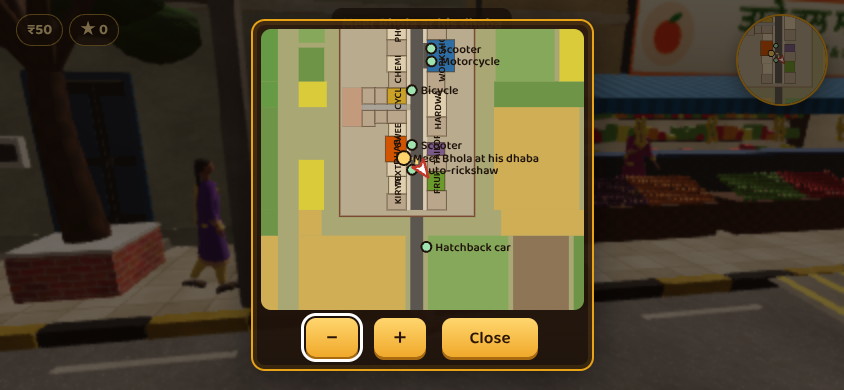
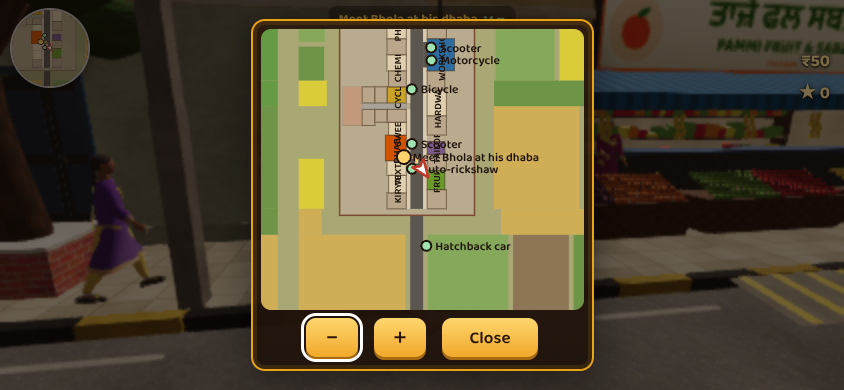
GTA-style touch HUD: edge-hugging translucent controls, clear centre
Minimap top-left (tap for the full map) with speed under it, money and
status top-right, a one-line objective at the top, a small faint joystick,
small see-through buttons and compact pedals in the corner, no hint box,
the interact button only when there is something to do.

Claude-Session: https://claude.ai/code/session_01Jnez1WfyLHPdoZrXbbanCH

diff --git a/src/ui/styles.css b/src/ui/styles.css
@@ -224,3 +224,79 @@ body.touch .compass { top: calc(140px + env(safe-area-inset-top)); }
   .mapwrap h2, .mapwrap .legend { display: none; }
   .zoombar { margin-top: 4px; }
 }
+
+/* ==========================================================================
+   Touch HUD, GTA-style: everything hugs the edges and stays see-through so the
+   middle of the screen is all road. Map top-left (tap it for the full map),
+   money and status top-right, a slim objective at the top, small translucent
+   controls in the bottom corners.
+   ========================================================================== */
+body.touch .hints { display: none !important; }
+body.touch .minimap {
+  left: calc(10px + env(safe-area-inset-left)); right: auto; top: calc(8px + env(safe-area-inset-top));
+  width: 96px; height: 96px; border-width: 2px; border-color: rgba(255,255,255,.75); box-shadow: 0 2px 8px rgba(0,0,0,.45);
+  pointer-events: auto; z-index: 2; opacity: .92;
+}
+body.touch .speedo {
+  left: calc(10px + env(safe-area-inset-left)); right: auto; top: calc(108px + env(safe-area-inset-top)); bottom: auto; transform: none;
+  width: 96px; min-width: 0; background: none; border: none; padding: 0; display: flex; justify-content: center; gap: 4px; align-items: baseline;
+  text-shadow: 0 1px 2px #000, 0 0 4px #000;
+}
+body.touch .speedo .v { font-size: 20px; }
+body.touch .speedo .u { font-size: 11px; color: #fff; }
+body.touch .speedo .n, body.touch .speedo .hint { display: none; }
+body.touch .wallet {
+  left: auto; right: calc(12px + env(safe-area-inset-right)); top: calc(46px + env(safe-area-inset-top));
+  flex-direction: column; align-items: flex-end; gap: 2px; max-width: 40vw;
+}
+body.touch .wallet .chip { background: none; border: none; padding: 0 2px; font-size: 17px; text-shadow: 0 1px 2px #000, 0 0 5px #000; }
+body.touch .wallet .chip.health .hb { width: 70px; height: 7px; }
+body.touch .wallet .chip.wanted { font-size: 15px; padding: 1px 6px; border-radius: 6px; }
+body.touch .wallet .chip.buff { font-size: 12px; }
+body.touch .ttop { left: auto; right: calc(10px + env(safe-area-inset-right)); top: calc(6px + env(safe-area-inset-top)); gap: 6px; }
+body.touch .ttop .tbtn.small { width: 34px; height: 34px; font-size: 14px; background: rgba(0,0,0,.28); border: 1px solid rgba(255,255,255,.45); }
+body.touch .ttop .tbtn.small:nth-child(2) { display: none; } /* map: tap the minimap instead */
+body.touch .objective {
+  top: calc(6px + env(safe-area-inset-top)); max-width: 42vw; min-width: 0; padding: 2px 10px 3px;
+  background: rgba(10,6,2,.42); border-bottom-width: 2px; border-radius: 8px;
+}
+body.touch .objective .t { font-size: 13px; }
+body.touch .objective .d { display: none; }
+body.touch .objective { display: flex; align-items: baseline; gap: 6px; }
+body.touch .objective .dist { font-size: 11px; }
+body.touch .compass { top: calc(34px + env(safe-area-inset-top)); width: 26px; height: 26px; margin-left: -13px; opacity: .85; }
+body.touch .compass svg { width: 26px; height: 26px; }
+body.touch .toasts { left: calc(10px + env(safe-area-inset-left)); top: calc(134px + env(safe-area-inset-top)); max-width: 34vw; gap: 4px; }
+body.touch .toast { font-size: 12px; padding: 3px 8px; background: rgba(10,6,2,.62); }
+body.touch .job { right: calc(12px + env(safe-area-inset-right)); top: calc(132px + env(safe-area-inset-top)); width: 120px; padding: 4px 7px; font-size: 11px; background: rgba(10,6,2,.5); }
+body.touch .prompt { bottom: calc(10px + env(safe-area-inset-bottom)); font-size: 13px; padding: 3px 10px; background: rgba(10,6,2,.55); border-color: rgba(255,255,255,.2); }
+body.touch .recover { bottom: calc(46px + env(safe-area-inset-bottom)); font-size: 13px; padding: 3px 10px; }
+
+/* Joystick: small and faint until touched. */
+body.touch .tstick-base { width: 104px; height: 104px; margin: -52px 0 0 -52px; left: 96px; top: calc(100% - 96px); border-width: 2px; border-color: rgba(255,255,255,.35); background: rgba(0,0,0,.12); }
+body.touch #touch .tstick-base { opacity: .45; }
+body.touch #touch .tstick-base.active { opacity: .9; }
+body.touch .tstick-knob { width: 44px; height: 44px; margin: -22px 0 0 -22px; background: radial-gradient(circle at 35% 35%, rgba(255,255,255,.75), rgba(200,200,200,.45)); box-shadow: 0 2px 6px rgba(0,0,0,.35); }
+
+/* Right-hand buttons: small translucent circles; pedals as compact squares in the corner. */
+body.touch .tpad { right: calc(10px + env(safe-area-inset-right)); bottom: calc(10px + env(safe-area-inset-bottom)); gap: 8px; }
+body.touch .tbtn { width: 50px; height: 50px; font-size: 19px; background: rgba(0,0,0,.26); border: 1.5px solid rgba(255,255,255,.55); color: #fff; text-shadow: 0 1px 2px #000; }
+body.touch .tbtn small { font-size: 9px; }
+body.touch .tbtn.big { width: 60px; height: 60px; font-size: 22px; background: rgba(232,163,23,.55); border-color: rgba(255,255,255,.8); color: #fff; }
+body.touch .tbtn.big.dim { visibility: hidden; }
+body.touch .tbtn.recover { background: rgba(160,40,20,.5); }
+body.touch .tbtn.pedal { width: 58px; height: 64px; border-radius: 12px; font-size: 20px; }
+body.touch .tbtn.gas { background: rgba(46,125,50,.45); }
+body.touch .tbtn.brake { background: rgba(176,38,30,.42); }
+body.touch .tbtn.gas.on { background: rgba(102,187,106,.85); }
+body.touch .tbtn.brake.on { background: rgba(239,83,80,.85); }
+body.touch .tpad.driving .tbtn.interact { width: 50px; height: 50px; }
+body.touch .tbtn.on, body.touch .tbtn:active { background: rgba(232,163,23,.75); }
+@media (max-height: 400px) {
+  body.touch .minimap { width: 80px; height: 80px; }
+  body.touch .speedo { top: calc(90px + env(safe-area-inset-top)); width: 80px; }
+  body.touch .toasts { top: calc(114px + env(safe-area-inset-top)); }
+  body.touch .tbtn { width: 44px; height: 44px; font-size: 17px; }
+  body.touch .tbtn.big { width: 54px; height: 54px; }
+  body.touch .tbtn.pedal { width: 52px; height: 56px; }
+}

diff --git a/src/ui/Ui.ts b/src/ui/Ui.ts
@@ -64,6 +64,8 @@ export class Ui {
   private dialogueEl: HTMLDivElement | null = null;
   /** Tapping the interaction prompt (touch screens). */
   onPromptTap: (() => void) | null = null;
+  /** Tapping the minimap (touch screens). */
+  onMapTap: (() => void) | null = null;
   /** Called for every button activation (UI click sound). */
   onClick: (() => void) | null = null;
 
@@ -105,6 +107,12 @@ export class Ui {
     this.perfEl = el("div", "perf hidden");
     this.minimap = el("canvas", "minimap");
     this.minimap.width = this.minimap.height = 190;
+    // Touch: tapping the minimap opens the full map (GTA-style).
+    this.minimap.addEventListener("pointerdown", (e) => {
+      if (!this.onMapTap) return;
+      e.preventDefault();
+      this.onMapTap();
+    });
     this.hud.append(wallet, this.objEl, this.compassEl, this.promptEl, this.speedoEl, this.toastsEl, this.jobEl, this.recoverEl, this.hintsEl, this.perfEl, this.minimap);
     root.append(this.hud);
     root.addEventListener("click", (e) => {

diff --git a/src/app/Game.ts b/src/app/Game.ts
@@ -177,6 +177,7 @@ export class Game {
     window.addEventListener("pointerdown", (e) => { if (e.pointerType === "touch") enableTouch(); }, { capture: true });
     this.input.onPadMenu = (k) => this.ui.padNav(k);
     this.ui.onPromptTap = () => { if (this.state === "playing") this.input.tapVirtual("interact"); };
+    this.ui.onMapTap = () => { if (this.state === "playing" && this.touchMode) this.input.tapVirtual("map"); };
     await this.physics.init(this.scene);
     this.cam = new CameraRig(this.scene, this.input, this.physics);
     this.scene.activeCamera = this.cam.camera;
